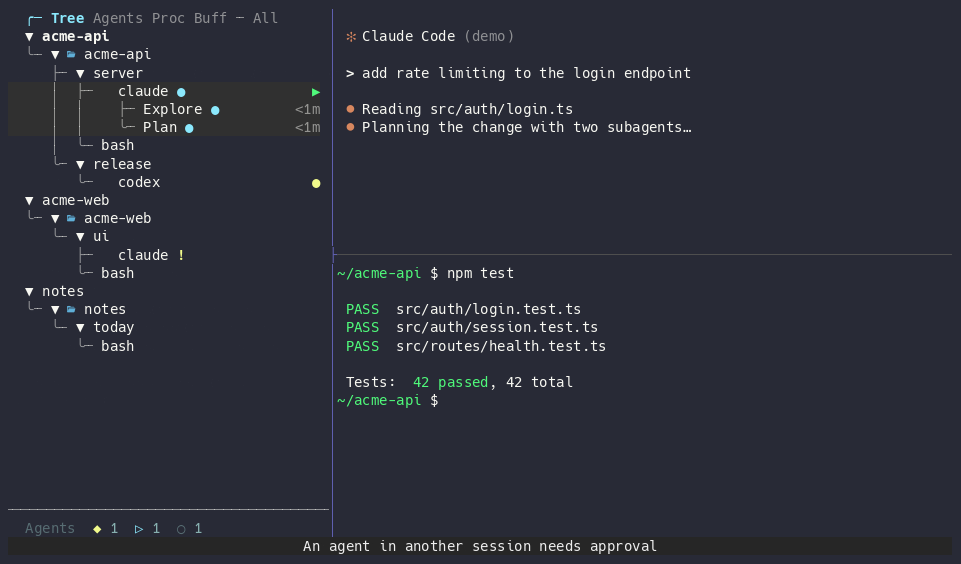
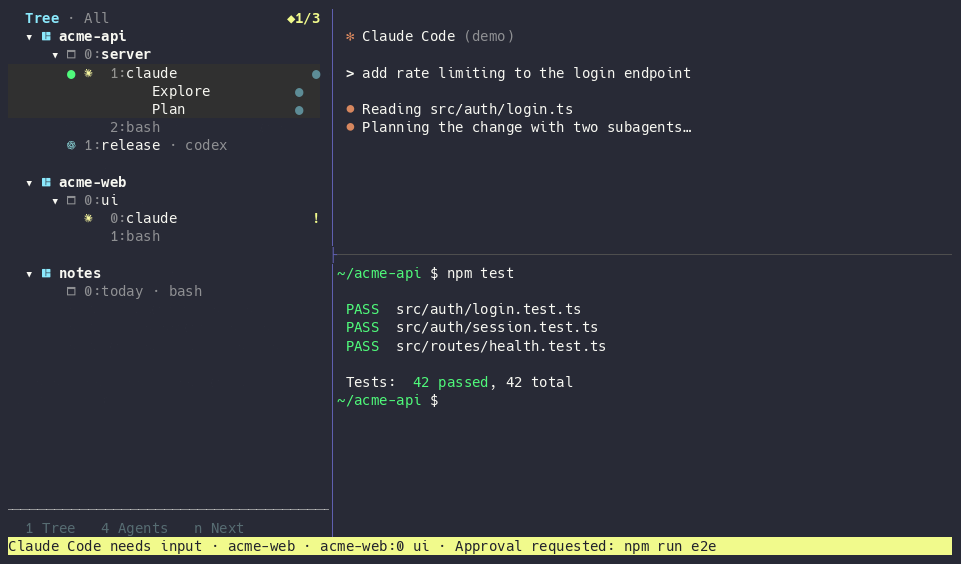
make quiet the default appearance
quiet, the tmux-ordered tree, is now what @tmux-canopy-appearance
defaults to; folders (also places) keeps the directory-grouped tree, and
ascii is quiet without glyphs. A quiet session named after its directory
no longer repeats it on its heading.

The README describes quiet: a new sidebar-at-a-glance mockup, features,
and appearance text, plus a release badge. Its demo and walkthrough are
re-recorded in quiet and show a tmux alert when another session's agent
asks for approval. Tests that assumed the folder layout now accept
quiet's combined single-pane rows, dim activity, and header.

diff --git a/tests/configuration.py b/tests/configuration.py
@@ -1,6 +1,7 @@
 #!/usr/bin/env python3
 """Reload restores owned configuration without clobbering later user edits."""
 import os
+import re
 from pathlib import Path
 import subprocess as sp
 import tempfile
@@ -71,7 +72,7 @@ def main():
             assert '--bind=ctrl-t:' in binds
             tm('set-option', '-g', '@tmux-canopy-agents', 'on')
             load()
-            assert 'Agents' in source() and '[Agents]' in source('--agents')
+            assert 'Agents' in source() and 'Agents · All' in re.sub(r'\x1b\[[0-9;]*m', '', source('--agents'))
             client = '/dev/ttys-agent-test'
             key = sp.check_output(['cksum'], input=client.encode()).split()[0].decode()
             tm('set-option', '-g', '@tmux_canopy_agents_' + key, 'off')
@@ -93,26 +94,32 @@ def main():
         tm('set-option', '-g', '@tmux-canopy-icon-theme', 'auto')
         load()
         assert tm('show-option', '-gqv', '@tmux_canopy_icon_theme') == 'unicode'
-        assert tm('show-option', '-gqv', '@tmux_canopy_appearance') == 'places'
+        # quiet is the default appearance; ascii is quiet without glyphs.
+        assert tm('show-option', '-gqv', '@tmux_canopy_appearance') == 'quiet'
         tm('set-option', '-g', '@tmux-canopy-appearance', 'ascii')
         load()
-        assert tm('show-option', '-gqv', '@tmux_canopy_appearance') == 'places'
+        assert tm('show-option', '-gqv', '@tmux_canopy_appearance') == 'quiet'
         assert tm('show-option', '-gqv', '@tmux_canopy_icon_theme') == 'ascii'
         tm('set-option', '-g', '@tmux-canopy-icon-theme', 'auto')
         tm('set-option', '-g', '@tmux-canopy-appearance', 'default')
         load()
         assert tm('show-option', '-gqv', '@tmux_canopy_icon_theme') == 'unicode'
-        assert tm('show-option', '-gqv', '@tmux_canopy_appearance') == 'places'
+        assert tm('show-option', '-gqv', '@tmux_canopy_appearance') == 'quiet'
+        # folders keeps the directory-grouped tree; places is still accepted.
+        for name in ('folders', 'places'):
+            tm('set-option', '-g', '@tmux-canopy-appearance', name)
+            load()
+            assert tm('show-option', '-gqv', '@tmux_canopy_appearance') == 'places', name
         tm('set-option', '-g', '@tmux-canopy-appearance', 'quiet')
         load()
         assert tm('show-option', '-gqv', '@tmux_canopy_appearance') == 'quiet'
         assert tm('show-option', '-gqv', '@tmux_canopy_icon_theme') == 'unicode'
         tm('set-option', '-g', '@tmux-canopy-appearance', 'unexpected')
         load()
-        assert tm('show-option', '-gqv', '@tmux_canopy_appearance') == 'places'
+        assert tm('show-option', '-gqv', '@tmux_canopy_appearance') == 'quiet'
         tm('set-option', '-g', '@tmux-canopy-appearance', 'nope')
         load()
-        assert tm('show-option', '-gqv', '@tmux_canopy_appearance') == 'places'
+        assert tm('show-option', '-gqv', '@tmux_canopy_appearance') == 'quiet'
         assert tm('show-option', '-gqv', '@tmux_canopy_animate') == 'on'
         tm('set-option', '-g', '@tmux-canopy-animate', 'off')
         load()

diff --git a/tests/quiet_layout.py b/tests/quiet_layout.py
@@ -49,10 +49,12 @@ def render(icons, density='normal', compact=''):
                    ['W', '$0', '@5', '3', 'mixed', '2', 'off', '', '', '', '0'],
                    pane('%6', '@5', '1', 'zsh', '/projects/api', '106'),
                    pane('%7', '@5', '2', 'claude', '/projects/docs', '107'),
-                   ['S', '$1', 'docs', '0'], ['W', '$1', '@2', '1', 'zsh', '1', 'off', '', '', '', '0'],
+                   ['S', '$1', 'reference', '0'], ['W', '$1', '@2', '1', 'zsh', '1', 'off', '', '', '', '0'],
                    pane('%4', '@2', '1', 'zsh', '/projects/docs', '104'),
                    ['S', '$2', 'session-3', '0'], ['W', '$2', '@3', '1', 'zsh', '1', 'off', '', '', '', '0'],
-                   pane('%5', '@3', '1', 'zsh', '/projects/docs', '105')]
+                   pane('%5', '@3', '1', 'zsh', '/projects/docs', '105'),
+                   ['S', '$3', 'notes', '0'], ['W', '$3', '@4', '1', 'zsh', '1', 'off', '', '', '', '0'],
+                   pane('%8', '@4', '1', 'zsh', '/projects/notes', '108')]
         run = sp.run(['awk', '-v', 'header=1', '-v', 'stable=1', '-v', 'nul=1',
                       '-f', str(ROOT / 'lib/tree-render.awk'), str(state), '-'],
                      input='\n'.join(SEP.join(r) for r in records) + '\n', text=True,
@@ -82,7 +84,7 @@ def main():
         assert '\n' not in first and '\x1b[1mwork' in first, first
         gap, heading = second.split('\n')
         assert gap == '', second
-        assert '\x1b[1mdocs' in heading and '\x1b[1;36m' in heading, heading
+        assert '\x1b[1mreference' in heading and '\x1b[1;36m' in heading, heading
         assert '\x1b[1m\x1b[2msession-3' in automatic.split('\n')[1], automatic
         # Plain output is a dim notice; a bell keeps the amber.
         assert '\x1b[2m' + ('*' if icons == 'ascii' else '●') + '\x1b[0m' in tree['P:%1:$0'], tree['P:%1:$0']
@@ -97,6 +99,9 @@ def main():
         # window shows one per pane. Nothing mixed claims one.
         tail = {key: ANSI.sub('', tree[key]).rstrip() for key in tree}
         assert tail['S:$1'].endswith('docs') and not tail['W:@2:$1'].endswith('docs'), (tail['S:$1'], tail['W:@2:$1'])
+        # ...unless the session is named after that directory: the detail would
+        # only repeat its name.
+        assert tail['S:$3'].split('\n')[-1].count('notes') == 1, tail['S:$3']
         assert not tail['S:$0'].endswith(('api', 'web', 'docs')), tail['S:$0']
         assert tail['W:@0:$0'].endswith('api') and tail['W:@1:$0'].endswith('web'), (tail['W:@0:$0'], tail['W:@1:$0'])
         assert not tail['W:@5:$0'].endswith(('api', 'docs')), tail['W:@5:$0']

diff --git a/docs/demo/record.py b/docs/demo/record.py
@@ -133,6 +133,8 @@ set -g @tmux-canopy-icon-theme nerdfont
 set -g @tmux-canopy-agents on
 set -g @tmux-canopy-width 38
 set -g @tmux-canopy-animate on
+set -g @tmux-canopy-alerts tmux
+set -g @tmux-canopy-appearance quiet
 set -g @demo_caption ''
 ''')
         try:
@@ -204,9 +206,9 @@ set -g @demo_caption ''
                 time.sleep(.6)
                 hook(api, 'api', {'hook_event_name': 'SubagentStart', 'agent_id': 's2', 'agent_type': 'Plan'})
                 time.sleep(2.8)
+                # The real tmux alert takes over the status line for five seconds.
                 permission()
-                caption(f'{plain}An agent in another session needs approval')
-                time.sleep(3)
+                time.sleep(5.2)
                 caption(f'{key}n{plain}  jump straight to the waiting agent')
                 keys('n', pause=.2)
                 time.sleep(3.5)
@@ -240,17 +242,10 @@ set -g @demo_caption ''
                 keys('4', pause=.3)
                 time.sleep(2)
                 permission()
-                caption(f'{plain}An agent in another project needs approval')
-                time.sleep(2.5)
+                time.sleep(5.2)
                 caption(f'{key}n{plain}  jump to the blocker')
                 keys('n', pause=.2)
-                time.sleep(2)
-                keys('C-b', 'T', pause=.15)
-                tm('set-option', '-g', '@tmux-canopy-appearance', 'quiet')
-                tm('run-shell', str(ROOT / 'tmux-canopy.tmux'))
-                caption(f'{plain}Quiet mode keeps the tree, softens the chrome')
-                keys('C-b', 'T', pause=.15)
-                time.sleep(3)
+                time.sleep(2.5)
                 caption(f'{plain}Need more space? Open Canopy as a popup')
                 keys('C-b', 'T', pause=.15)
                 tm('set-option', '-g', '@tmux-canopy-mode', 'popup')

diff --git a/tests/popup.py b/tests/popup.py
@@ -133,7 +133,10 @@ def main():
             wait(lambda: tm('display-message', '-c', client, '-p', '#{window_name}') == 'second', 'client switched to second window')
             toggle()
             wait(is_popup_active, 'popup opened on second window')
-            wait(lambda: probe_selection() == f'P:{second_pane}:{session_id}', 'active second window pane highlighted')
+            # quiet shows a single-pane window as one row with the window's identity.
+            second_window = display(second_pane, '#{window_id}')
+            wait(lambda: probe_selection() in (f'P:{second_pane}:{session_id}', f'W:{second_window}:{session_id}'),
+                 'active second window highlighted')
             os.write(master, b'\r')
             wait(lambda: not is_popup_active(), 'popup closed via Enter')
             assert tm('display-message', '-c', client, '-p', '#{window_name}') == 'second'

diff --git a/tests/mouse.py b/tests/mouse.py
@@ -46,8 +46,9 @@ def main():
         try:
             first = tm('-f', '/dev/null', 'new-session', '-d', '-s', 'one', '-x', '120', '-y', '30',
                        '-P', '-F', '#{pane_id}')
-            # Long enough that the tree scrolls.
-            for _ in range(24):
+            # Long enough that the tree scrolls, even with one row per
+            # single-pane window.
+            for _ in range(48):
                 tm('new-window', '-d', '-t', 'one:')
             tm('set-option', '-g', 'mouse', 'on')
             tm('set-option', '-g', 'status', 'off')

diff --git a/README.md b/README.md
@@ -1,6 +1,6 @@
 # tmux-canopy
 
-[![Test](https://github.com/jonmosco/tmux-canopy/actions/workflows/test.yml/badge.svg)](https://github.com/jonmosco/tmux-canopy/actions/workflows/test.yml)
+[![Release](https://img.shields.io/github/v/release/jonmosco/tmux-canopy?sort=semver)](https://github.com/jonmosco/tmux-canopy/releases/latest) [![Test](https://github.com/jonmosco/tmux-canopy/actions/workflows/test.yml/badge.svg)](https://github.com/jonmosco/tmux-canopy/actions/workflows/test.yml)
 
 **A tmux workspace tree and AI-agent monitor in one sidebar, with no daemon.**
 
@@ -10,9 +10,9 @@ Canopy keeps your sessions, windows, and panes in a persistent tree that follows
 
 ## Preview
 
-[![Canopy in tmux: the sidebar shows three projects, two subagents appear, another project's agent requests approval, and n jumps to it](docs/assets/canopy-demo.gif?v=3)](docs/assets/canopy-demo.gif?v=3)
+[![Canopy in tmux: the sidebar shows three projects, two subagents appear, another project's agent requests approval, and n jumps to it](docs/assets/canopy-demo.gif?v=4)](docs/assets/canopy-demo.gif?v=4)
 
-**See every project. Spot the blocker. Jump to it with `n`.** This 19-second preview was recorded in a real tmux client with fictional projects and scripted agent events. [Watch the longer walkthrough](docs/assets/canopy-walkthrough.gif?v=3) for browsing, search, previews, Agents view, quiet appearance, and floating popup mode. [View a still image](docs/assets/canopy-demo.png?v=3).
+**See every project. Spot the blocker. Jump to it with `n`.** This 19-second preview was recorded in a real tmux client with fictional projects and scripted agent events. [Watch the longer walkthrough](docs/assets/canopy-walkthrough.gif?v=4) for browsing, search, previews, Agents view, alerts, and floating popup mode. [View a still image](docs/assets/canopy-demo.png?v=4).
 
 ## Quick start
 
@@ -30,10 +30,10 @@ For agent status beyond process detection, run `~/.tmux/plugins/tmux-canopy/cano
 
 ## Features
 
-- Sessions → windows → panes tree with distinct session/window symbols, numbered windows and panes, application icons, and an active-location marker. Directory groups keep related panes together.
+- Sessions → windows → panes in tmux's own order, each window once, with numbered windows and panes, application icons, and an active-location marker. Directories and Git branches show as details; idle shells are dimmed so what is running stands out.
 - Left or right placement; **left by default**.
 - Floating **popup modal** mode or adaptive **auto** switching on smaller displays (`@tmux-canopy-mode`).
-- Width-aware directory grouping, optional minimal and compact views, previews, and scrollable popup help.
+- Optional directory-grouped layout (`folders`), minimal and compact views, previews, and scrollable popup help.
 - Optional Git branch labels for panes and directory groups, without polling or changing repository state.
 - Global quick switching, including panes inside collapsed branches.
 - Tree filters for the current session, unread notifications, window names, and pane titles.
@@ -220,7 +220,7 @@ set -g @tmux-canopy-resize-mode 'live'    # live, staged, or preset
 set -g @tmux-canopy-max-width '0'         # 0 means no fixed cap
 set -g @tmux-canopy-min-content-width '40'
 set -g @tmux-canopy-density 'normal'    # normal, minimal, compact, or detailed
-set -g @tmux-canopy-appearance 'default'  # default, quiet, or ascii
+set -g @tmux-canopy-appearance 'quiet'    # quiet (default), folders, or ascii
 set -g @tmux-canopy-animate 'on'          # off: disable the WORKING status animation
 set -g @tmux-canopy-zoom-action 'refuse'   # refuse (default) or unzoom
 set -g @tmux-canopy-alerts 'off'     # desktop, tmux, or both: alert when an agent needs you
@@ -235,43 +235,44 @@ Reload your tmux configuration after changing settings. Close and reopen Canopy 
 
 ## The sidebar at a glance
 
-A sidebar with agent mode on, two Claude Code sessions, and a folded session:
+A sidebar with agent mode on, one agent waiting for approval, and a folded session:
 
 ```text
-╭─ Tree Agents Proc Buff ─ All       ① ②
-  ▼ app                              ③
-  ├─ ▼ 📂 api                        ④
-  │  ╰─ ▼ server                     ⑤
-  │     ├─ ✳ claude !            ▶   ⑥ ⑦ ⑧
-  │     │    ├─ Explore ●      <1m   ⑨
-  │     │    ╰─ Plan !         <1m
-  │     ╰─ zsh
-  ├─ ▼ 📂 web
-  │  ╰─ ▼ ui
-  │     ╰─ ✳ claude ●
-  ╰─ ▼ 📂 projects
-     ╰─ ▼ notes
-        ├─ zsh                   ●   ⑩
-        ╰─ zsh
-  ▶ scratch [2w]                     ⑪
+Tree · All                          ◆1/3   ① ②
+▾ ◈ acme                                   ③
+   ▾ ▣ 0:server             api ⎇ main     ④ ⑤
+   ●  ✳  1:claude                    !     ⑥ ⑦ ⑧
+            Explore                  ▷     ⑨
+            Plan                     !
+             2:zsh                         ⑩
+      ✳ 1:ui · claude      web ⎇ feat/ui   ⑪
+
+▾ ◈ notes
+      ▣ 0:today · zsh                ●     ⑫
+
+▸ ◈ scratch [2w]                           ⑬
 ───────────────────────────────────
-  Agents ◆1 ▷1  n jumps to input     ⑫
+ 1 Tree   4 Agents   n Next                ⑭
 ```
 
 | | What it shows | Keys |
 |---|---|---|
-| ① | **Views.** Tree, Agents, Processes, and Buffers; the highlighted one is open. | `1` Tree, `4` Agents, `2` Processes, `3` Buffers |
-| ② | **Tree filter:** `All`, `Session` (only the current session), or `Unread`. `+W` / `+T` means a window-name or pane-title filter is also on. | `F` or `Ctrl-f` |
-| ③ | **Session.** Bold when it is the one you are in. `▼` open, `▶` folded. | `h` / `l` fold and unfold, `H` / `L` all |
-| ④ | **Folder.** Panes grouped by their working directory. | |
-| ⑤ | **Window.** | `Enter` focus, `r` rename, `t` new window, `a` actions |
-| ⑥ | **Pane:** application icon and the command running in it. | `Enter` focus, `s` / `v` split, `z` zoom, `x` `x` delete |
-| ⑦ | **Agent state:** `!` needs input, a pulsing `●` working, `✓` turn ended. | `n` next agent that needs input, `i` agent summary |
-| ⑧ | **Your current pane** (green `▶`). The highlighted row is what you are browsing; it can differ. | `Ctrl-o` jump back to your pane |
-| ⑨ | **Subagents** of the pane above, with their state and age. They disappear when they finish. | |
-| ⑩ | **Unread output** (amber `●`); a bell or a silence alert has its own mark. | `u` clear, `U` clear all |
-| ⑪ | **Folded session**, with the number of windows inside. | `l` unfold |
-| ⑫ | **Footer.** With agent mode on, every agent on the server, whatever the tree's filters and folds. With it off, your sessions, windows, and panes (`◈ 3 sessions  ▣ 8 windows  ▹ 14 panes`), shown as visible/total while a filter hides some. | `n` jump to the agent waiting, `f` hide or show |
+| ① | **View and filter.** The open view (`Tree`, `Agents`, `Proc`, `Buff`) and the tree filter: `All`, `Session` (only the current session), or `Unread`. `+W` / `+T` means a window-name or pane-title filter is also on. | `1` Tree, `4` Agents, `2` Processes, `3` Buffers; `F` or `Ctrl-f` filters |
+| ② | **Agent summary:** the most urgent state and the total, such as `◆1/3` (one of three agents needs input). `▷` working, `✓` ended, `○` found by process only. | `n` jump to the agent waiting |
+| ③ | **Session**, a bold heading. Sessions are separated by a blank line. | `h` / `l` fold and unfold, `H` / `L` all |
+| ④ | **Window**, in tmux's order; each window appears once. | `Enter` focus, `r` rename, `t` new window, `a` actions |
+| ⑤ | **Directory and branch**, dim at the right of the highest row whose panes all share them: the session, a window, or a pane. | `canopy-branch`, `canopy-directory` at `prefix :` |
+| ⑥ | **Your current pane** (green `●`). The highlighted row is what you are browsing; it can differ. | `Ctrl-o` jump back to your pane |
+| ⑦ | **Pane:** application icon, pane index, and the command running in it. | `Enter` focus, `s` / `v` split, `z` zoom, `x` `x` delete |
+| ⑧ | **Agent state** at the right edge: `!` needs input, `▷` working, `✓` turn ended. | `n` next agent that needs input, `i` agent summary |
+| ⑨ | **Subagents** of the pane above, with their own state. They disappear when they finish. | |
+| ⑩ | **An idle shell**, dimmed so running programs stand out. | |
+| ⑪ | **A window with one pane**, on one row. The command follows `·` when the window has another name. | |
+| ⑫ | **Unread output** (dim `●`); a bell or silence alert is amber. | `u` clear, `U` clear all |
+| ⑬ | **Folded session**, with the number of windows inside. | `l` unfold |
+| ⑭ | **Key hints.** | `f` hide or show |
+
+Prefer panes grouped by directory, with tab headers and tree guides? Set `@tmux-canopy-appearance 'folders'`.
 
 Press `g` in the sidebar for every symbol and color, and `?` for every key.
 
@@ -327,7 +328,7 @@ Press `Ctrl-r` in the sidebar after changing a setting by hand or switching bran
 
 ## Customizing the look
 
-By default, panes are grouped by working directory with folder and application icons, and labels adapt to the sidebar's width. For a quieter tree that follows tmux's own structure, opt in with `set -g @tmux-canopy-appearance 'quiet'`. It lists sessions, windows, and panes in tmux's order, each window once, with directories and Git branches as dim details on the right instead of folder rows. Sessions read as bold headings, a window holding one pane takes one row, and shells idling at their prompt are dimmed so what is running stands out. It replaces the view tabs with a compact `Tree · All` header, keeps the active pane dot by its name, and moves agent and unread marks to the right edge. The Tree footer becomes shortcut hints (`1 Tree`, `4 Agents`, `n Next` when agent mode is on); `f` still hides it. See the [visual example](docs/sidebar-visual-examples.html) (illustrative, not a screenshot). Set `@tmux-canopy-appearance 'ascii'` for the default layout without glyph-font requirements, or `@tmux-canopy-density 'minimal'` for the leanest rows. Reload the plugin after changing appearance, then reopen the sidebar. Application icons can be changed or hidden per app with options such as `@tmux-canopy-icon-codex` (`none` hides one); see [Icons](docs/reference.md#icons).
+The default appearance, `quiet`, follows tmux's own structure: sessions, windows, and panes in tmux's order, each window once, with directories and Git branches as dim details on the right. Sessions read as bold headings, a window holding one pane takes one row, and shells idling at their prompt are dimmed so what is running stands out. A compact `Tree · All` header replaces the view tabs, the active pane dot sits by its name, agent and unread marks sit at the right edge, and the footer shows key hints (`f` hides it). Set `@tmux-canopy-appearance 'folders'` to group panes by working directory with folder rows, view tabs, and tree guides instead, `ascii` for `quiet` without glyph-font requirements, or `@tmux-canopy-density 'minimal'` for the leanest rows. Reload the plugin after changing appearance, then reopen the sidebar. Application icons can be changed or hidden per app with options such as `@tmux-canopy-icon-codex` (`none` hides one); see [Icons](docs/reference.md#icons).
 
 See the [configuration and command reference](docs/reference.md) for every control, appearance setting, notification option, and the architecture.
 

diff --git a/docs/reference.md b/docs/reference.md
@@ -281,7 +281,7 @@ set -g @tmux-canopy-alerts 'off' # desktop, tmux, or both: tell you when an agen
 set -g @tmux-canopy-alert-events 'agents' # add bell, silence, or activity for tmux's own alerts
 set -g @tmux-canopy-alert-sound 'off' # default or a sound name for desktop alerts
 set -g @tmux-canopy-alert-detail 'brief' # full: include the agent's last reply
-set -g @tmux-canopy-appearance 'default' # or 'quiet', 'ascii' (classic still works)
+set -g @tmux-canopy-appearance 'quiet' # default; or 'folders', 'ascii' (classic still works)
 set -g @tmux-canopy-animate 'on' # off: disable the moving WORKING highlight
 set -g @tmux-canopy-footer 'on' # off: open sidebars without the Tree view footer; f toggles it
 set -g @tmux-canopy-theme 'ansi'
@@ -423,15 +423,17 @@ The option model is provider-neutral: each notification provider owns a namespac
 
 ### Appearance
 
-`@tmux-canopy-appearance` defaults to `default`, grouping panes by working
-directory and showing folder and application icons. Session symbols (`◈`) and
+`@tmux-canopy-appearance` defaults to `quiet`, described below: sessions,
+windows, and panes in tmux's order with directories as details. `folders` (the
+default before 0.2, also accepted as `places`) groups panes by working
+directory and shows folder and application icons. Session symbols (`◈`) and
 window symbols (`▣`) distinguish tmux objects from folders; windows show their
 index (`▣ 1:server`) and panes show their index before the command (`0:claude`).
 These numbers are tmux indexes, not agent counts. Window names are bold at the
 current location. Window folds hide their panes inside each directory group
 and show pane counts and rolled-up attention. ASCII uses `S` and `W`; Nerd Font
-and custom session/window icons are respected. `quiet` is an opt-in variant
-that follows tmux's own structure instead of grouping by folder, with the same
+and custom session/window icons are respected. `quiet`, the default, follows
+tmux's own structure instead of grouping by folder, with the same
 sessions, windows, panes, folds, filters, actions, agent rows, and selection
 identities.
 
@@ -462,8 +464,9 @@ footer shows shortcut hints instead of workspace/agent counts; `f` and
 existing tabs. The examples in [Quiet tree](sidebar-visual-examples.html) are
 illustrations, not pixel-exact screenshots.
 
-`ascii` uses the default folder layout without Unicode glyphs; it can also be
-selected as `@tmux-canopy-icon-theme 'ascii'` alongside `quiet`. `classic`, the
+`ascii` is `quiet` without Unicode glyphs, the same as
+`@tmux-canopy-icon-theme 'ascii'`; use the icon theme with `folders` for the
+grouped layout in ASCII. `classic`, the
 earlier window-first tree, is still accepted for existing setups.
 `@tmux-canopy-icon-theme` and `@tmux-canopy-theme 'mono'` also work with `quiet`.
 Reload the plugin after changing `@tmux-canopy-appearance`, then reopen the
@@ -506,8 +509,9 @@ may be `minimal`, `normal`, `compact`, or `detailed`:
 
 The active pane has one green dot. Its session and window names are bold; fzf's
 highlight and cyan pointer identify the selected row. A minimal combined window
-row carries the dot when it contains the active pane. The default appearance
-shows folder and application icons; ASCII mode uses text markers.
+row carries the dot when it contains the active pane. The default and folders
+appearances show application icons, and folders adds folder icons; ASCII mode
+uses text markers.
 Explicitly configured icons remain in both. Expanded branches omit pane/client
 totals unless a Tree filter is active.
 An ordinary collapsed window shows a muted pane count at the right edge when
@@ -547,7 +551,7 @@ view shortcuts remain in help.
 Pending `MOVE`, `LINK`, or `DELETE` operations remain visible. The search input appears
 only after `/` and disappears on `Esc`; fzf counters and the top separator are
 hidden. Tree rows use branch guides and the ASCII fallback uses plain-text
-equivalents. Colored application icons apply in the default appearance.
+equivalents. Colored application icons apply in the quiet and folders appearances.
 
 ### Preview
 

diff --git a/CHANGELOG.md b/CHANGELOG.md
@@ -2,6 +2,12 @@
 
 ## Unreleased
 
+### Changed
+
+- `quiet` is now the default appearance: sessions, windows, and panes in tmux's own order, each window once, with directories and Git branches as details and idle shells dimmed. Set `@tmux-canopy-appearance 'folders'` to keep the directory-grouped tree with view tabs and tree guides (`places` is still accepted). `default` now means `quiet`, and `ascii` is `quiet` without Unicode glyphs.
+- In `quiet`, a session named after its directory no longer repeats that directory on its heading; its branch, when shown, still appears.
+- The README demo and walkthrough are recorded in `quiet` and show a tmux alert when an agent in another session asks for approval.
+
 ## 0.1.0 - 2026-10-10
 
 ### Added
